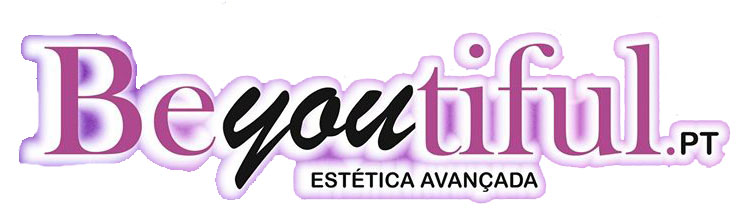
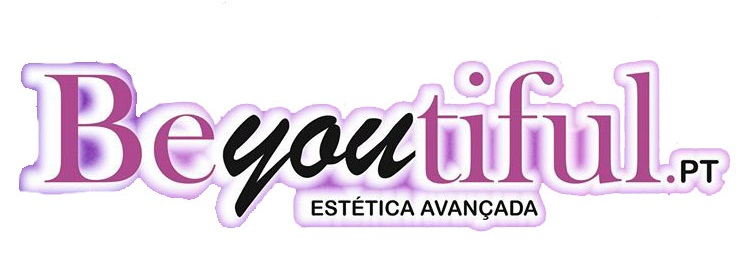
Add files via upload

Changed region(s): [[0.0, 0.125, 0.9946, 0.9062]]

diff --git a/index.html b/index.html
@@ -33,9 +33,9 @@
                 <li><a href="#intro">Início</a></li>
                 <li><a href="#QuemSomos">Quem somos?</a></li>
                 <li><a href="#QueresParticipar">Queres participar?</a></li>
-                <li><a href="#ComoChegar">Como chegar lá?</a></li>
-                <li><a href="#Convidados">Juris e Speaker</a></li>
-                <li><a href="#partner">Patrocinios</a></li>
+                <li><a href="#Cron">Cronograma</a></li>
+                <li><a href="#Convidados">Júris e Speaker</a></li>
+                <li><a href="#partner">Parceiros</a></li>
             </ul>
         </nav>
     </header>
@@ -44,7 +44,7 @@
     <section id="intro" class="main style1 dark fullscreen">
         <div class="content">
             
-                <img src="images/Logo_branco.png" style="width:40%; float:right" alt="logo">
+                <img src="images/Logo_branco.png" style="width:30%; float:right" alt="logo">
             
             
         </div>
@@ -54,11 +54,11 @@
     <section id="QuemSomos" class="main style2 right dark fullscreen" style="text-indent:30px;">
         <div class="content box style2">
             <header>
-                <h2>Quem somos</h2>
+                <h2>Quem somos?</h2>
             </header>
             <p>
               Somos um grupo de 3 alunos do curso de comunicação da escola Profitecla Porto e em colaboração com a Câmara Municipal da Maia estamos a preparar um
-							campeonato de skate – 360 Sk8ChallengeMaia que terá lugar no novo Skatepark desta radical cidade.
+							campeonato de skate – <strong>360 Sk8ChallengeMaia </strong> que terá lugar no novo Skatepark desta radical cidade nos dias <strong>28 e 29 de outubro</strong>.
             </p>
         </div>
         <a href="#QueresParticipar" class="button style2 down anchored">Next</a>
@@ -70,32 +70,35 @@
             <header>
                 <h2>Queres participar?</h2>
             </header>
-            <p>Tens um skate? E skill's?</p>
+            <p><strong>Tens um skate? E skill's?</strong></p>
             <p>
-							Então corre! Só os primeiros 112 inscritos terão lugar na competição.
-							Para te inscreveres basta clicares <a style="color:blue" target="_blank" href="https://goo.gl/forms/WBvD1TgWj6vbDhl92">
+							Então corre! As vagas são limitadas.
+							Para te inscreveres basta clicares <a style="color:blue" target="_blank" href="https://goo.gl/forms/9CnnhbHPsAcxdzuE2">
 							<strong>aqui</strong></a>. Vem juntar-te a nós nesta radical jornada!
             </p>
 
         </div>
-        <a href="#ComoChegar" class="button style2 down anchored">Next</a>
+        <a href="#Cron" class="button style2 down anchored">Next</a>
     </section>
 
     <!-- Two2 -->
-    <section id="ComoChegar" class="main style2 right dark fullscreen" >
+    <section id="Cron" class="main style2 right dark fullscreen" style="LINE-HEIGHT:10px;">
         <div class="content box style2">
             <header>
-                <h2>Como chegar?</h2>
+                <h2>Cronograma</h2>
             </header>
-            <h4>De Metro</h4>
-            <p style="text-indent:50px">Só existe a linha C da Metro do Porto, saida Forúm Maia e
-							andar em direção ao BurgerKing.
-						</p>
-            <h4>De Autocarro</h4>
-            <h6 style="text-indent:50px">STCP:</h6>
-						<p style="text-indent:80px">603 Saida: Maia Estadio</p>
-            <h4>De Transposte Próprio</h4>
-            <p style="text-indent:50px">Ir em direção do BurgerKing da Maia.</p>
+            <p><strong>28 de outubro</strong></p>
+            <p style="text-indent:50px;">#Eliminatórias:</p>
+            <p> <strong>10:30h</strong> Chamada presencial de todos os inscritos</p>
+            <p> <strong>11:20h</strong> Começo da prova</p>
+            <p> <strong>13:00h - 14:30h</strong> Almoço</p>
+            <p><strong>17:00h</strong> Fecho das Eliminatórias</p>
+            <p><strong>29 de outubro</strong></p>
+            <p style="text-indent:50px;">#Final:</p>
+            <p> <strong>14:30h</strong> Chamada presencial de todos os finalistas</p>
+            <p> <strong>15:00h</strong> Começo da prova</p>
+            <p> <STRONG>17:00h</STRONG> Entrega de prémios</p>
+            
         </div>
         <a href="#Convidados" class="button style2 down anchored">Next</a>
     </section>
@@ -103,7 +106,7 @@
     <section id="Convidados" class="main style3 primary">
         <div class="content">
             <header>
-                <h2>Juris e Speaker</h2>
+                <h2>Júris e Speaker</h2>
             </header>
 
             <!-- Gallery  -->
@@ -120,25 +123,28 @@
         </div>
 
     </section>
-    <div id="partner" style="width:100%;margin-bottom:3%">
+    <div id="partner" style="width:100%;margin-bottom:3%;vertical-align:middle;">
                   <h2 style="text-align:Center">Parceiros</h3>
                 <ul id="flexiselDemo3" >
-                    <li><img src="images/thumbs/patrocinadores/Alarval.jpg" ></li>
-                    <li><img src="images/thumbs/patrocinadores/Aquashow.jpg" /></li>
-                    <li><img src="images/thumbs/patrocinadores/LROTICAS.jpg" /></li>
-                    <li><img src="images/thumbs/patrocinadores/Beyoutiful.jpg"  /></li>
-                    <li><img src="images/thumbs/patrocinadores/Colective.jpg"  /></li>
-                    <li><img src="images/thumbs/patrocinadores/EmentaSB.jpg"  /></li>
-                    <li><img src="images/thumbs/patrocinadores/Kestampa.jpg"  /></li>
-                    <li><img src="images/thumbs/patrocinadores/QuadraSoltas.jpg"  /></li>
-                    <li><img src="images/thumbs/patrocinadores/Regional.jpg"  /></li>
-                    <li><img src="images/thumbs/patrocinadores/Yellowood.jpg"  /></li>
-								</ul>
+                    <li><img src="images/thumbs/patrocinadores/Alarval.jpg" style="width: 100%" /></li>
+                    <li><img src="images/thumbs/patrocinadores/Aquashow.jpg" style="width: 100%" /></li>
+                    <li><img src="images/thumbs/patrocinadores/LROTICAS.jpg" style="width: 100%" /></li>
+                    <li><img src="images/thumbs/patrocinadores/Beyoutiful.jpg" style="width: 100%" /></li>
+                    <li><img src="images/thumbs/patrocinadores/Colective.jpg" style="width: 100%" /></li>
+                    <li><img src="images/thumbs/patrocinadores/EmentaSB.png" style="width: 100%" /></li>
+                    <li><img src="images/thumbs/patrocinadores/Kestampa.jpg" style="width: 100%" /></li>
+                    <li><img src="images/thumbs/patrocinadores/QuadraSoltas.jpg" style="width: 100%" /></li>
+                    <li><img src="images/thumbs/patrocinadores/Regional.jpg" style="width: 100%" /></li>
+                    <li><img src="images/thumbs/patrocinadores/Yellowood.jpg" style="width: 100%" /></li>
+                    <li><img src="images/thumbs/patrocinadores/radical.png"  /></li>
+                    <li><img src="images/thumbs/patrocinadores/Cidade.png" style="width: 100%" /></li>	
+                    <li><img src="images/thumbs/patrocinadores/Maia.jpg" style="width: 100%" /></li>
+                </ul>
 <script type="text/javascript">
     $(window).load(function() {
         $("#flexiselDemo3").flexisel({
             visibleItems: 5,
-            animationSpeed: 5000,
+            animationSpeed: 5,
             autoPlay: true,
             autoPlaySpeed: 1000,
             pauseOnHover: true,

diff --git a/assets/css/main.css b/assets/css/main.css
@@ -2105,7 +2105,7 @@
 /* QuemSomos */
 
 	#QuemSomos {
-		background: url("images/overlay.png"), url("../../images/one.jpeg");
+		background: url("images/overlay.png"), url("../../images/two.jpeg");
 		background-size: 256px 256px, cover;
 		background-attachment: fixed, fixed;
 		background-position: top left, center center;
@@ -2113,7 +2113,7 @@
 
 /* QuemSomos */
 
-	#ComoChegar {
+	#Cron {
 		background: url("images/overlay.png"), url("../../images/3.jpeg");
 		background-size: 256px 256px, cover;
 		background-attachment: fixed, fixed;
@@ -2123,7 +2123,7 @@
 /* QueresParticipar */
 
 	#QueresParticipar {
-		background: url("images/overlay.png"), url("../../images/two.jpeg");
+		background: url("images/overlay.png"), url("../../images/4.jpg");
 		background-size: 256px 256px, cover;
 		background-attachment: fixed, fixed;
 		background-position: top left, center center;
